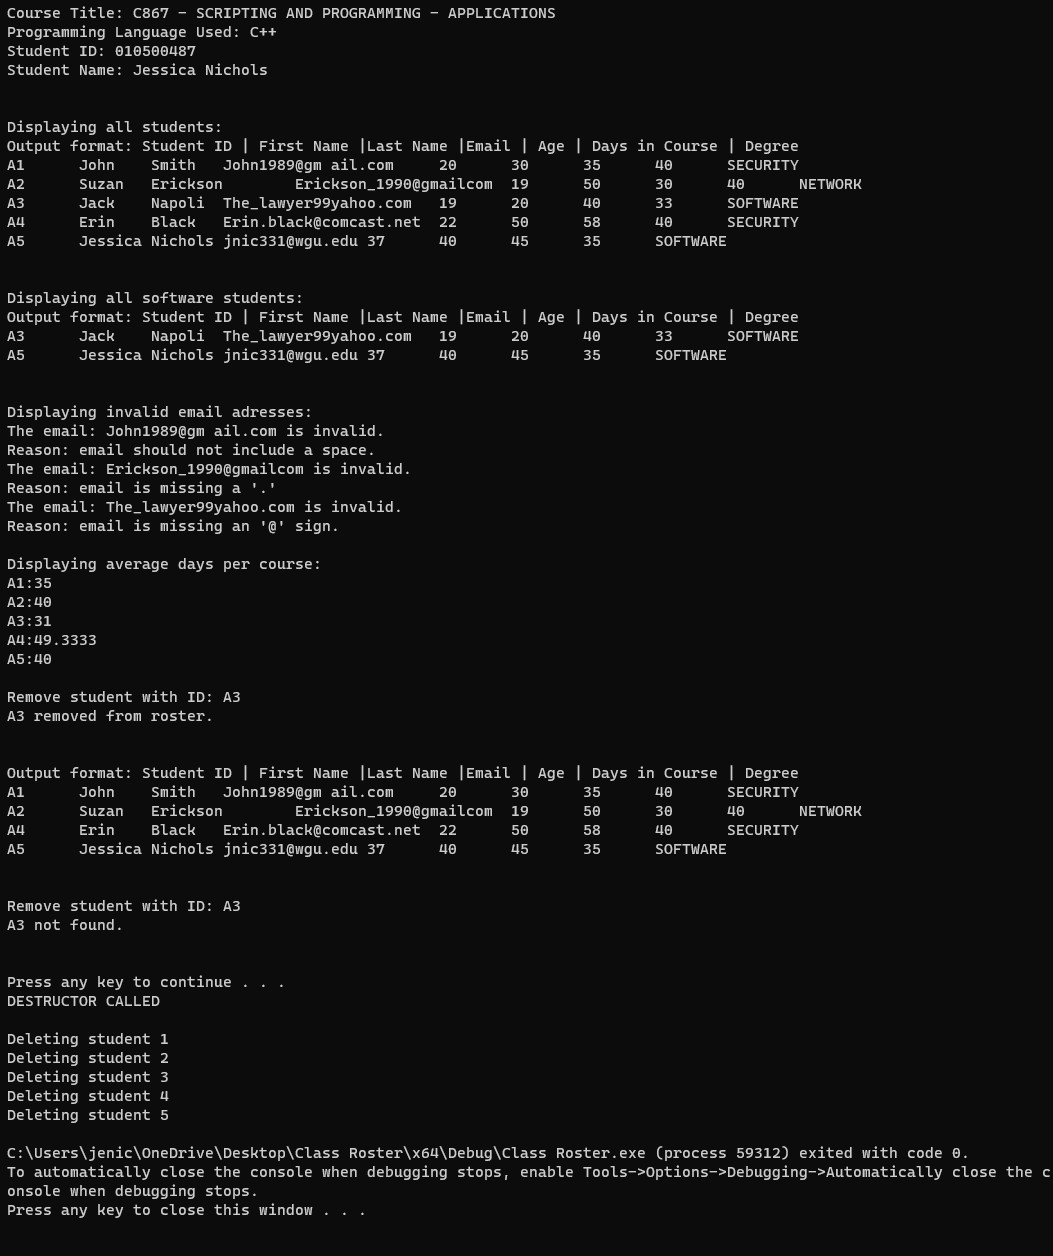
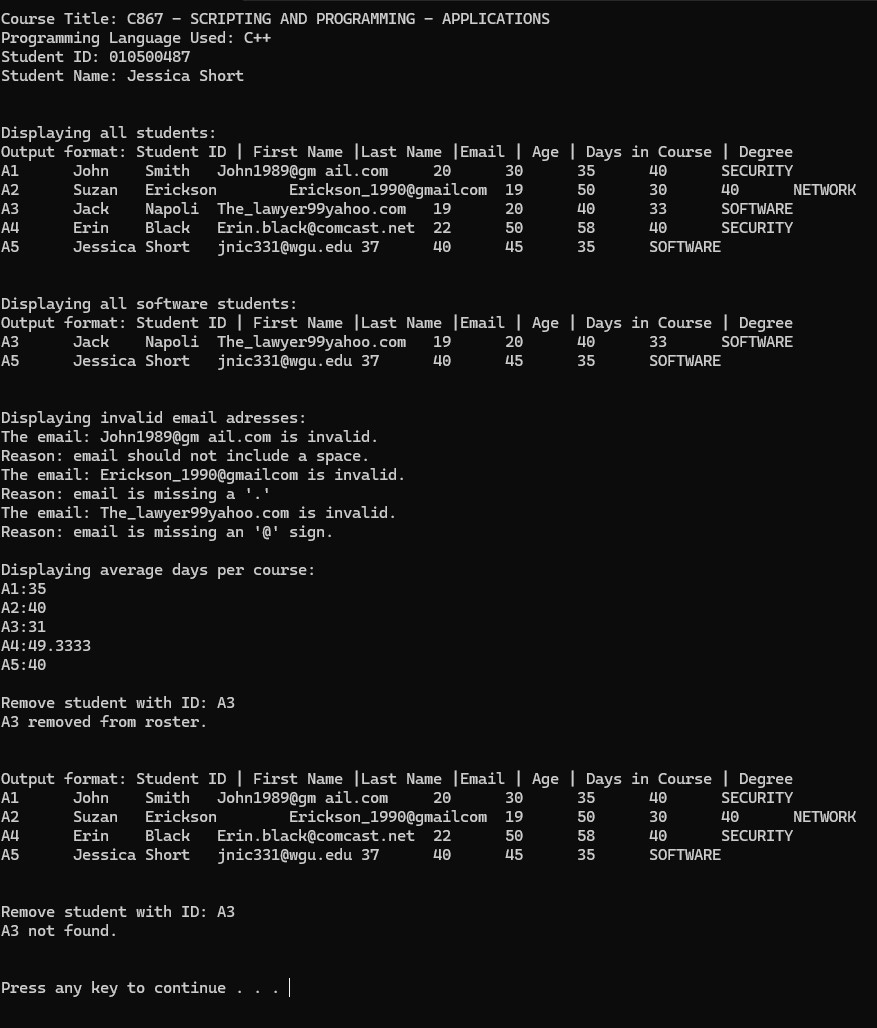
update name for Jessica Short and create new screenshot of output

Changed region(s): [[0.0, 0.0, 0.9852, 0.965], [0.7389, 0.7471, 0.9852, 0.8405], [0.7389, 0.3113, 0.9236, 0.3735]]

diff --git a/main.cpp b/main.cpp
@@ -9,7 +9,7 @@ int main()
     cout << "Course Title: C867 - SCRIPTING AND PROGRAMMING - APPLICATIONS" << std::endl;
     cout << "Programming Language Used: C++ " << std::endl;
     cout << "Student ID: 010500487" << std::endl;
-    cout << "Student Name: Jessica Nichols" << std::endl;
+    cout << "Student Name: Jessica Short" << std::endl;
     cout << "   " << std::endl;
     cout << "   " << std::endl;
 
@@ -20,7 +20,7 @@ int main()
         "A2,Suzan,Erickson,Erickson_1990@gmailcom,19,50,30,40,NETWORK",
         "A3,Jack,Napoli,The_lawyer99yahoo.com,19,20,40,33,SOFTWARE",
         "A4,Erin,Black,Erin.black@comcast.net,22,50,58,40,SECURITY",
-        "A5,Jessica,Nichols,jnic331@wgu.edu,37,40,45,35,SOFTWARE"
+        "A5,Jessica,Short,jnic331@wgu.edu,37,40,45,35,SOFTWARE"
     };
 
 
